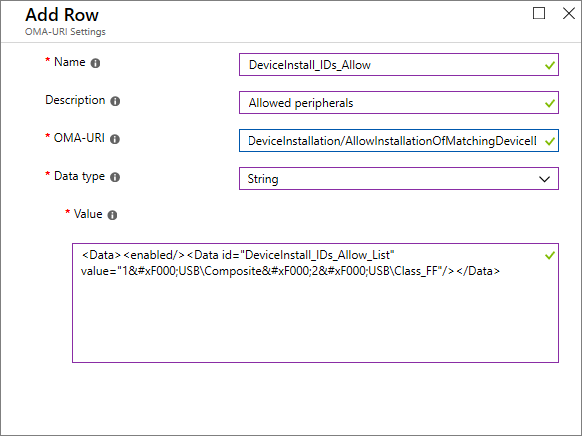
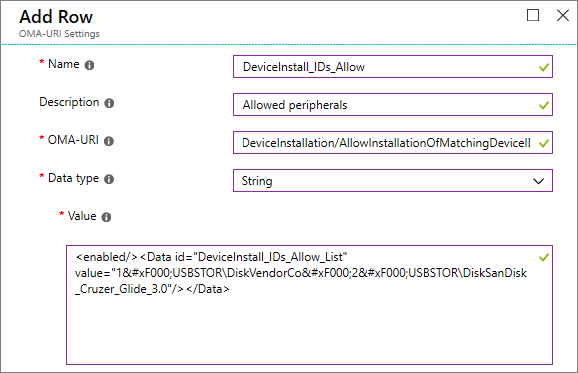
new images

diff --git a/windows/security/threat-protection/device-control/control-usb-devices-using-intune.md b/windows/security/threat-protection/device-control/control-usb-devices-using-intune.md
@@ -152,6 +152,7 @@ For more information about controlling USB devices, see the [Microsoft Secure bl
 ### Only allow installation and usage of specifically approved peripherals
 
 Windows Defender ATP allows installation and usage of only specifically approved peripherals by creating a custom profile in Intune and configuring [DeviceInstallation policies](https://docs.microsoft.com/windows/client-management/mdm/policy-csp-deviceinstallation).
+For example, this custom profile allows installation and usage of USB devices with hardware IDs "USBSTOR\DiskVendorCo" and "USBSTOR\DiskSanDisk_Cruzer_Glide_3.0".
 
 ![Custom profile](images/custom-profile-allow-device-ids.png)
 
@@ -162,7 +163,8 @@ Allowing installation of specific devices requires also enabling [DeviceInstalla
 
 ### Prevent installation of specifically prohibited peripherals
 
-Windows Defender ATP also blocks installation and usage of prohibited peripherals with a custom profile in Intune.
+Windows Defender ATP also blocks installation and usage of prohibited peripherals with a custom profile in Intune. 
+For example, this custom profile blocks installation and usage of USB devices with hardware IDs "USBSTOR\DiskVendorCo" and "USBSTOR\DiskSanDisk_Cruzer_Glide_3.0", and applies to USB devices with matching hardware IDs that are already installed.
 
 ![Custom profile](images/custom-profile-prevent-device-ids.png)
 
